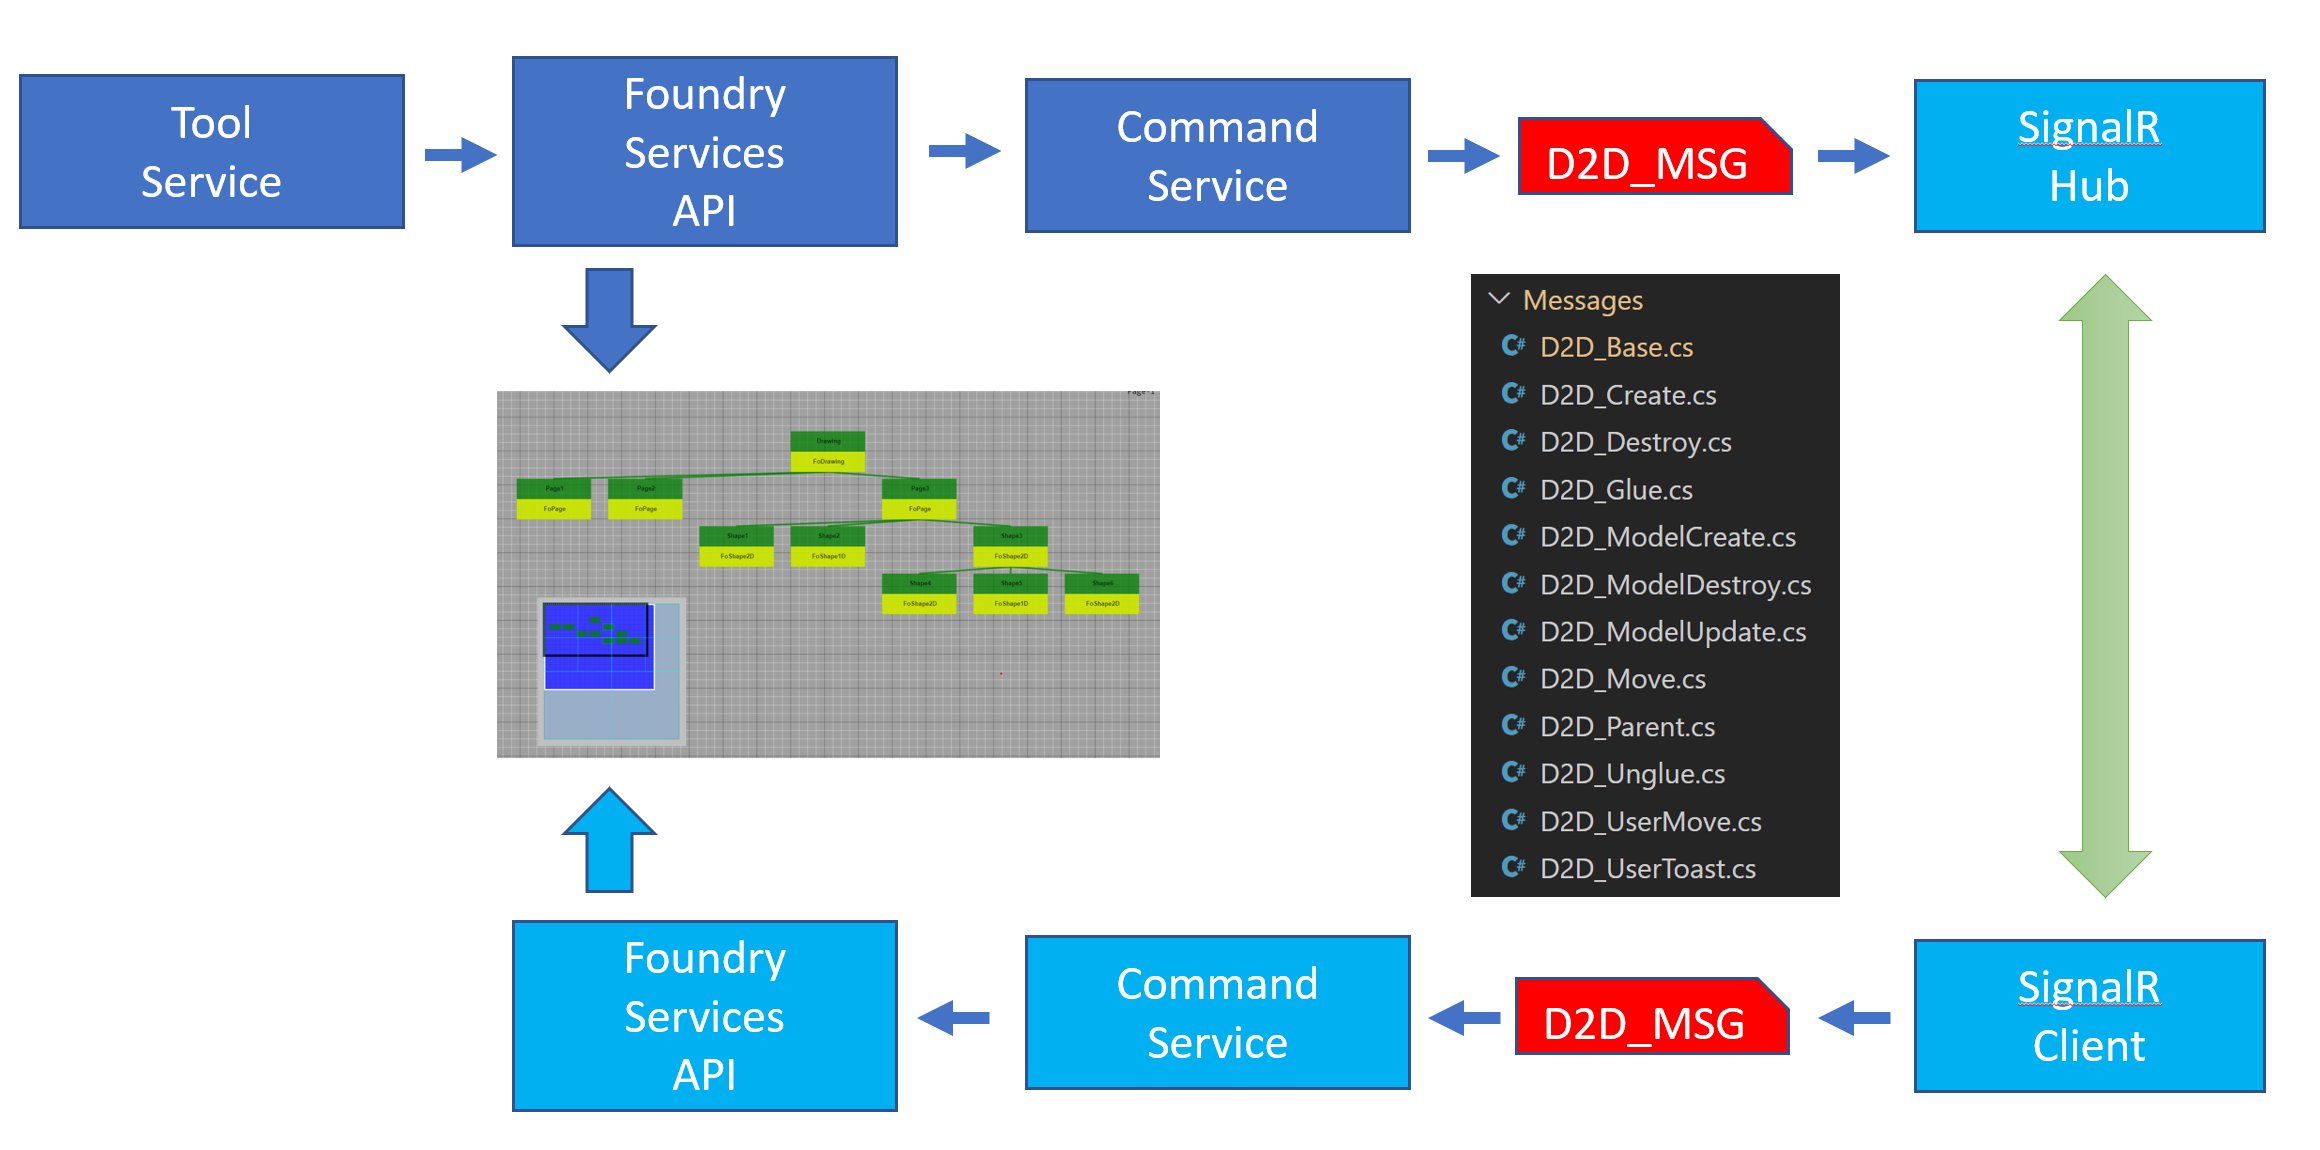
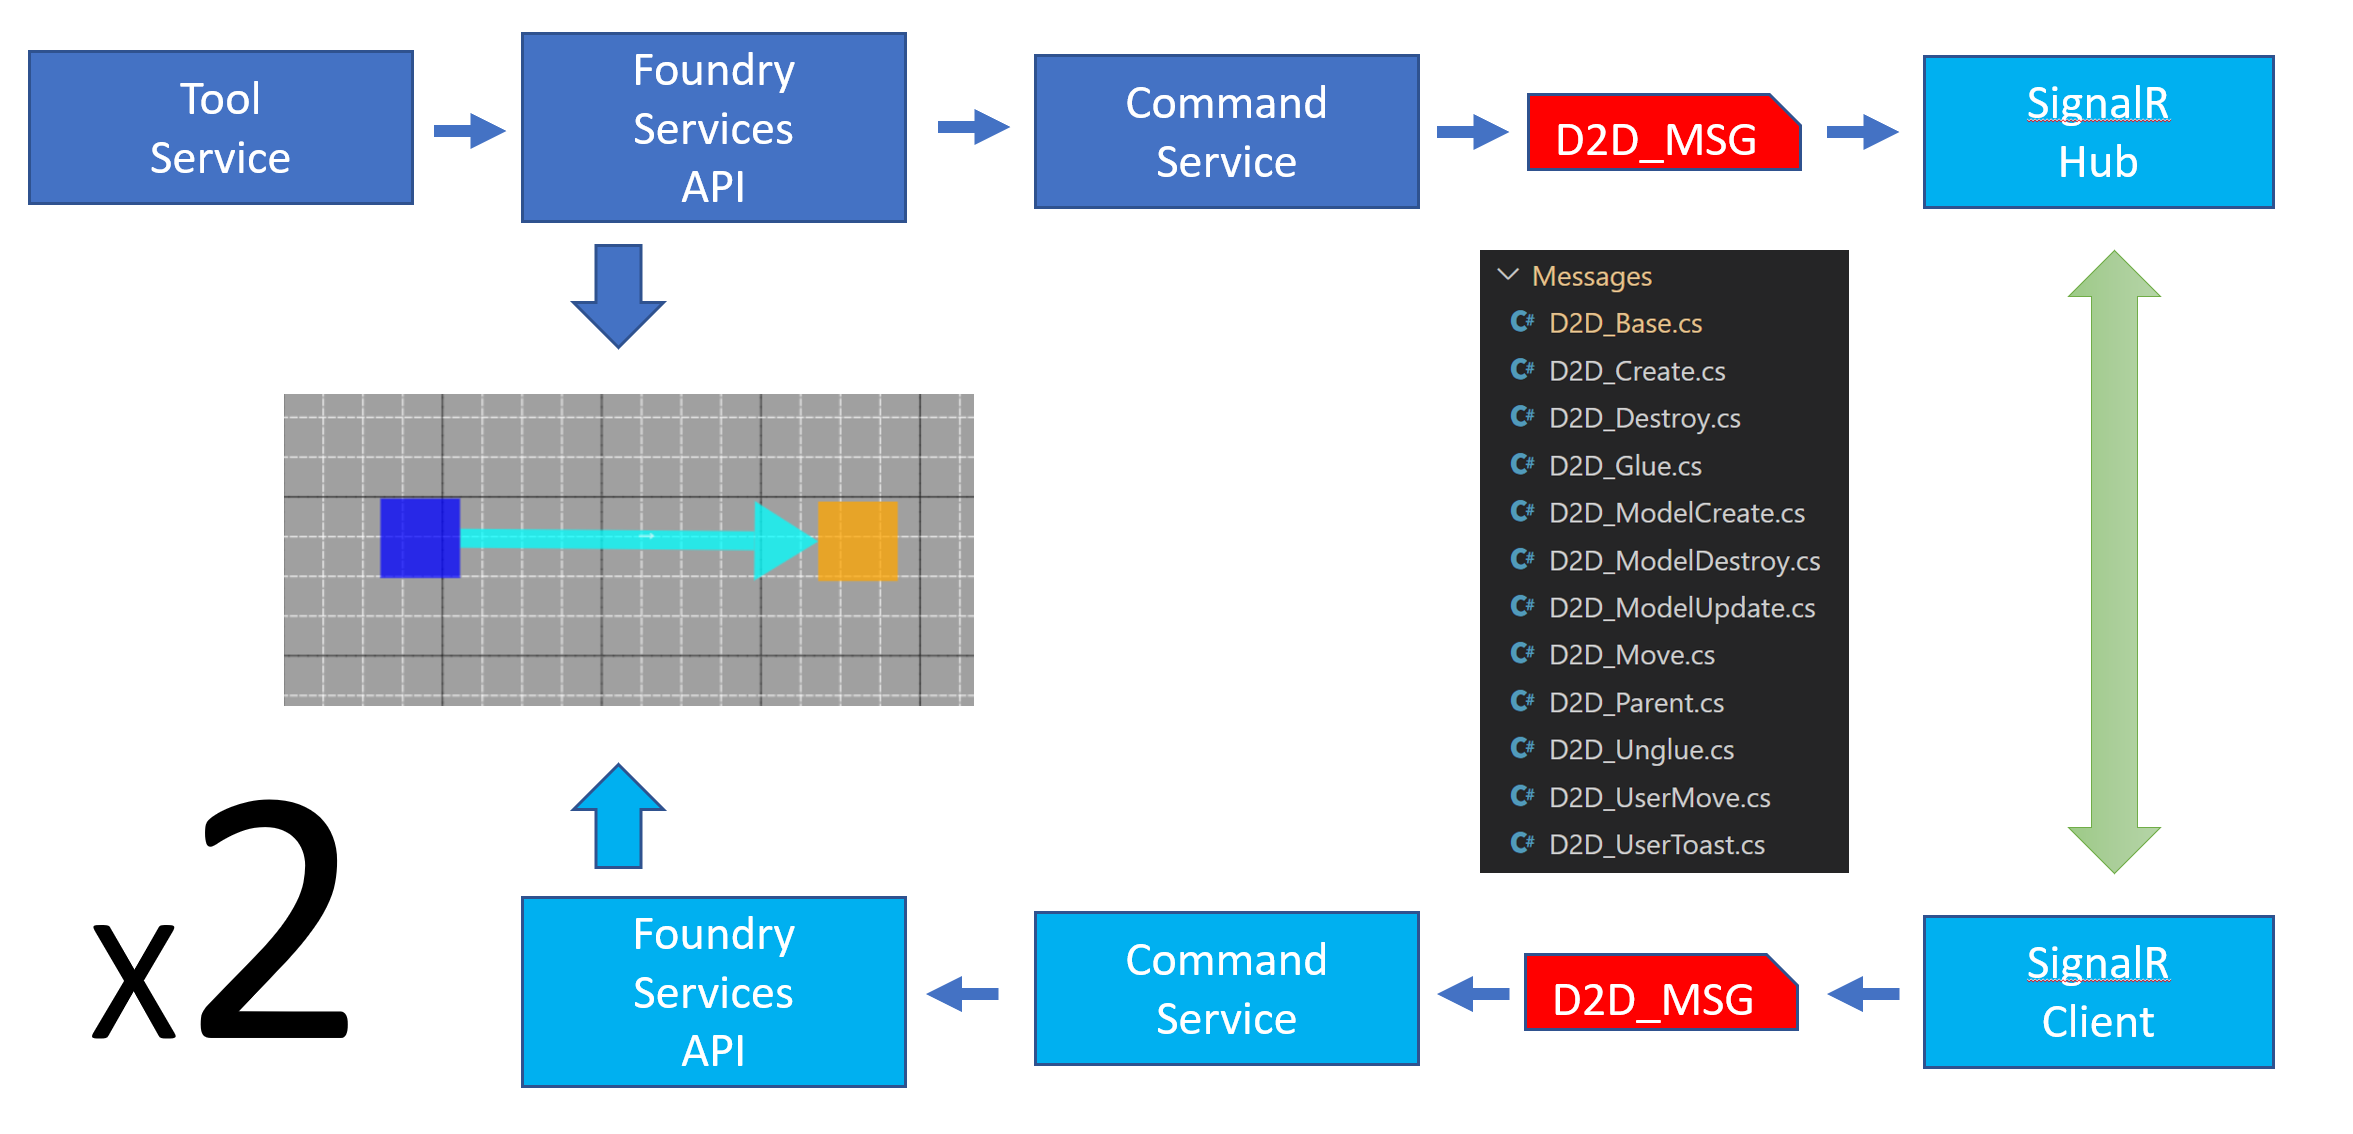
signalr

diff --git a/Models/SignalRdemo.cs b/Models/SignalRdemo.cs
@@ -1,15 +1,16 @@
 
+using Blazor.Extensions.Canvas.Canvas2D;
+using BlazorComponentBus;
 using FoundryBlazor.Canvas;
 using FoundryBlazor.Extensions;
+using FoundryBlazor.Message;
 using FoundryBlazor.Shape;
 using FoundryBlazor.Solutions;
-using Visio2023Foundry.Dialogs;
+using IoBTMessage.Models;
 using Microsoft.AspNetCore.Components;
 using Microsoft.JSInterop;
 using Radzen;
-using BlazorComponentBus;
-using FoundryBlazor.Message;
-using IoBTMessage.Models;
+using Visio2023Foundry.Dialogs;
 
 namespace Visio2023Foundry.Model;
 
@@ -21,6 +22,8 @@ public class SignalRDemo : FoWorkbook
         base(space,command,dialog,js,pubSub)
     {
     }
+
+
     public override void CreateMenus(IWorkspace space, IJSRuntime js, NavigationManager nav)
     {
         var OpenNew = async () =>
@@ -28,7 +31,9 @@ public class SignalRDemo : FoWorkbook
             var target = nav!.ToAbsoluteUri("/");
             try
             {
-                await js.InvokeAsync<object>("open", target); //, "_blank", "height=600,width=1200");
+                //  /visio2023drawing/Signalr
+                var url = $"{target}/visio2023drawing/Signalr";
+                await js.InvokeAsync<object>("open", url); //, "_blank", "height=600,width=1200");
             }
             catch { }
         };
@@ -36,16 +41,26 @@ public class SignalRDemo : FoWorkbook
         space.EstablishMenu2D<FoMenu2D, FoButton2D>("SignalR", new Dictionary<string, Action>()
         {
             { "Open New", () => OpenNew()},
-            { "Guid Test", () => CreateGuidTest()},
-            { "Group", () => CreateGroupShape()},
+            { "Tug of War", () => SetDoTugOfWar()},
             { "Ring", () => CreateGroupPlayground()},
             { "Glue", () => CreateGluePlayground()},
-            { "Line", () => CreateLinePlayground()},
             { "Blue Shape", () => SetDoCreateBlue()},
             { "Text Shape", () => SetDoCreateText()},
             { "Image Shape", () => SetDoCreateImage()},
             { "Image URL", () => SetDoAddImage()},
+              { "Start", () => StartHub()},
+                { "Stop", () => StopHub()},
         }, true);
+    }
+
+
+    public void StartHub()
+    {
+        Command.StartHub();
+    }
+    public void StopHub()
+    {
+        Command.StopHub();
     }
 
     private void CreateGuidTest()
@@ -88,7 +103,50 @@ public class SignalRDemo : FoWorkbook
         Command.SendShapeCreate(c1);
     }
 
+    private void SetDoTugOfWar()
+    {
+        var drawing = Workspace.GetDrawing();
+        if ( drawing == null) return;
 
+        var s1 = new FoShape2D(50, 50, "Blue");
+        s1.MoveTo(300, 200);
+        var s2 = new FoShape2D(50, 50, "Orange");
+        s2.MoveTo(500, 200);
+
+        drawing.AddShape(s1);  
+        drawing.AddShape(s2);
+
+        var wire2 = new FoShape1D("Arrow", "Cyan")
+        {
+            Height = 50,
+            ShapeDraw = async (ctx, obj) => await DrawSteveArrowAsync(ctx, obj.Width, obj.Height, obj.Color)
+        };
+        wire2.GlueStartTo(s1, "RIGHT");
+        wire2.GlueFinishTo(s2, "LEFT");
+        drawing.AddShape(wire2);
+    }
+
+    private static async Task DrawSteveArrowAsync(Canvas2DContext ctx, int width, int height, string color)
+    {
+        var headWidth = 40;
+        var bodyHeight = height / 4;
+        var bodyWidth = width - headWidth;
+
+        await ctx.SetFillStyleAsync(color);
+        var y = (height - bodyHeight) / 2.0;
+        await ctx.FillRectAsync(0, y, bodyWidth, bodyHeight);
+
+        await ctx.BeginPathAsync();
+        await ctx.MoveToAsync(bodyWidth, 0);
+        await ctx.LineToAsync(width, height / 2);
+        await ctx.LineToAsync(bodyWidth,height);
+        await ctx.LineToAsync(bodyWidth, 0);
+        await ctx.ClosePathAsync();
+        await ctx.FillAsync();
+
+        await ctx.SetFillStyleAsync("#fff");
+        await ctx.FillTextAsync("→", width /2, height / 2, 20);
+    }
     private void CreateGluePlayground()
     {
         var drawing = Workspace.GetDrawing();

diff --git a/Models/Stencil.cs b/Models/Stencil.cs
@@ -1,11 +1,9 @@
 using Blazor.Extensions.Canvas.Canvas2D;
 using BlazorComponentBus;
 using FoundryBlazor.Canvas;
-using FoundryBlazor.Extensions;
 using FoundryBlazor.Message;
 using FoundryBlazor.Shape;
 using FoundryBlazor.Solutions;
-using IoBTMessage.Extensions;
 using IoBTMessage.Models;
 using Microsoft.AspNetCore.Components;
 using Microsoft.JSInterop;
@@ -15,7 +13,7 @@ using Visio2023Foundry.Dialogs;
 
 namespace Visio2023Foundry.Model;
 
-	public class SPEC_ImageURL
+public class SPEC_ImageURL
 	{
         public int width { get; set; } = 0;
         public int height { get; set; } = 0;

diff --git a/Boids/BoidManager.cs b/Boids/BoidManager.cs
@@ -87,7 +87,7 @@ public class BoidManager : FoWorkbook
     }
     public override async Task RenderWatermark(Canvas2DContext ctx, int tick)
     {
-        //watermary is used to render the boids  and move 3D boids
+        //watermark is used to render the boids  and move 3D boids
         if (Simulation.IsRunning)
             await Simulation.RenderWatermark(ctx, tick);
     }

diff --git a/Pages/Visio2023Drawing.razor.cs b/Pages/Visio2023Drawing.razor.cs
@@ -89,6 +89,7 @@ public partial class Visio2023DrawingPage : ComponentBase, IDisposable
             var defaultHubURI = Navigation!.ToAbsoluteUri("/DrawingSyncHub").ToString();
             await Workspace.InitializedAsync(defaultHubURI!);
 
+
             //Toast?.Info(LoadWorkbook ?? "No LoadWorkbook");
         }
 
